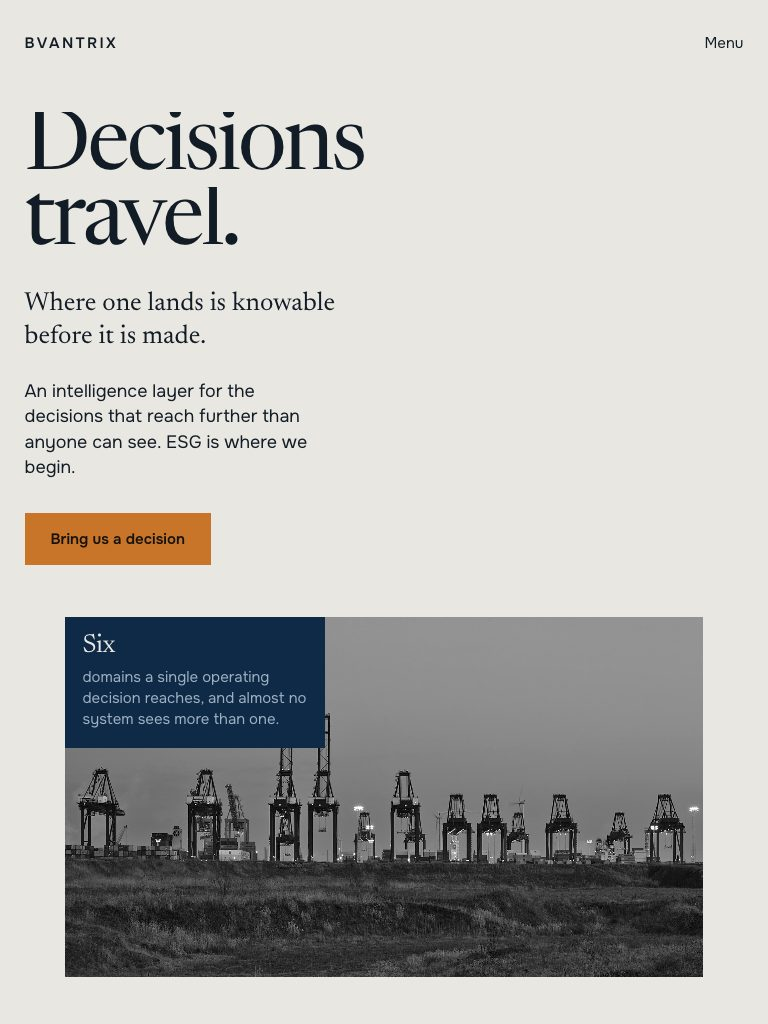
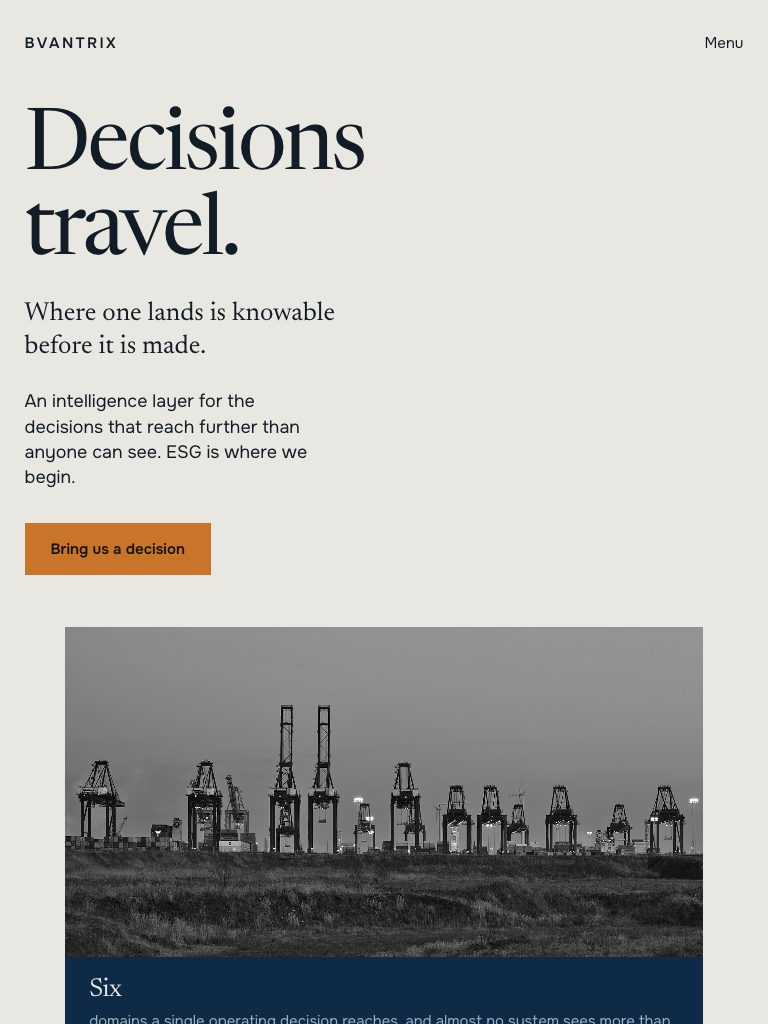
Stop the masthead clipping its own headline
"Decisions travel." was losing 9px off every ascender and 8px off
every descender, at every width. The headline rises out of a mask on
load, and the mask was fitted to the line box — but at line-height
0.88 the glyphs are taller than their line, so overflow:hidden cut
them permanently. It had nothing to do with the animation finishing.

The mask now carries 0.12em of padding with a matching negative
margin, so the glyphs have room and the rhythm is unchanged, and the
start offset moved to 128% so nothing peeks over the taller mask.
Measured: 8px of clearance where there were 9px of loss.

Two more from the same reading. A backgrounded tab freezes CSS
animations, which left the headline parked off-screen behind its mask
and the left column at zero opacity — the state the page was found
in. The masthead now takes its end state by hand after 1.6s and on
every return to visibility, so nothing can stay hidden.

And on a phone the panel reading "Six" was covering the photograph it
was meant to overlap; it now sits beneath it, full width.

diff --git a/css/style.css b/css/style.css
@@ -544,11 +544,21 @@ html:not(.js) .tel-code select { font: inherit; border: 0; background: transpare
    16. Motion
    -------------------------------------------------------------------------- */
 
-.line { display: block; overflow: hidden; }
+/* The mask that the headline rises out of. It needs more room than the
+   line box: at line-height 0.88 the glyphs are taller than their line, so
+   a mask fitted to the line clips 9px off every ascender and 8px off every
+   descender. The padding gives them room; the negative margin keeps the
+   rhythm; the start offset is past the taller mask so nothing peeks. */
+.line {
+  display: block;
+  overflow: hidden;
+  padding-top: 0.12em; padding-bottom: 0.12em;
+  margin-top: -0.12em; margin-bottom: -0.12em;
+}
 .line > span { display: block; }
 
 @media (prefers-reduced-motion: no-preference) {
-  .js .line > span { transform: translateY(102%); animation: riseLine .9s cubic-bezier(.16,.84,.3,1) forwards; }
+  .js .line > span { transform: translateY(128%); animation: riseLine .9s cubic-bezier(.16,.84,.3,1) forwards; }
   .js .line:nth-child(2) > span { animation-delay: .11s; }
   .js .masthead-talk, .js .standfirst, .js .tag { opacity: 0; animation: fadeUp .7s cubic-bezier(.16,.84,.3,1) .5s forwards; }
   .js .standfirst { animation-delay: .58s; }
@@ -564,6 +574,13 @@ html:not(.js) .tel-code select { font: inherit; border: 0; background: transpare
   .plate:hover img, .leaf-plate:hover img { transform: scale(1.03); }
 }
 @keyframes riseLine { to { transform: none; } }
+
+/* If the animation never runs — a backgrounded tab, a frozen frame — the
+   content must not stay off-screen behind its own mask. */
+.js .shown .line > span { transform: none !important; animation: none !important; }
+.js .shown .masthead-talk, .js .shown .standfirst, .js .shown .tag {
+  opacity: 1 !important; transform: none !important; animation: none !important;
+}
 @keyframes fadeUp { to { opacity: 1; transform: none; } }
 
 @media (prefers-reduced-motion: reduce) {
@@ -594,8 +611,10 @@ html:not(.js) .tel-code select { font: inherit; border: 0; background: transpare
     row-gap: 26px;
   }
   .masthead-title { order: -1; }
-  .masthead-plate { grid-column: 1; height: clamp(250px, 56vw, 360px); margin-top: 26px; }
-  .tag { width: min(260px, 66%); padding: 16px 18px 18px; }
+  /* on a phone the panel stops covering its own photograph and sits under it */
+  .masthead-plate { grid-column: 1; height: auto; margin-top: 26px; display: grid; }
+  .masthead-plate img { height: clamp(220px, 52vw, 330px); }
+  .tag { position: static; transform: none; width: 100%; padding: 20px var(--margin) 22px; }
   .masthead-talk { padding-bottom: 0; }
   .mosaic { grid-template-columns: repeat(2, 1fr); grid-auto-rows: clamp(140px, 34vw, 220px); }
   .mosaic .wide { grid-column: span 2; }

diff --git a/js/main.js b/js/main.js
@@ -37,6 +37,17 @@ var BVANTRIX_EMAIL    = 'info@bvantrix.com';
     items.forEach(function (n) { n.classList.add('in'); });
   }
 
+  /* The masthead reveals itself with CSS. If that never finishes — a tab
+     opened in the background freezes animations — the mask would hold the
+     headline off-screen, so take the end state by hand. */
+  var mast = document.querySelector('.masthead');
+  if (mast) {
+    window.setTimeout(function () { mast.classList.add('shown'); }, 1600);
+    document.addEventListener('visibilitychange', function () {
+      if (!document.hidden) mast.classList.add('shown');
+    });
+  }
+
   /* ── the menu ───────────────────────────────────────────────────── */
   var btn = document.getElementById('menuBtn');
   var drawer = document.getElementById('drawer');

diff --git a/index.html b/index.html
@@ -24,7 +24,7 @@
 <link rel="preconnect" href="https://fonts.googleapis.com">
 <link rel="preconnect" href="https://fonts.gstatic.com" crossorigin>
 <link rel="stylesheet" href="https://fonts.googleapis.com/css2?family=Newsreader:opsz,wght@6..72,300;6..72,400;6..72,500&family=Onest:wght@400;500;600&display=swap">
-<link rel="stylesheet" href="css/style.css?v=7.6">
+<link rel="stylesheet" href="css/style.css?v=7.8">
 </head>
 <body>
 
@@ -497,6 +497,6 @@
   </div>
 </div>
 
-<script src="js/main.js?v=7.5"></script>
+<script src="js/main.js?v=7.7"></script>
 </body>
 </html>
